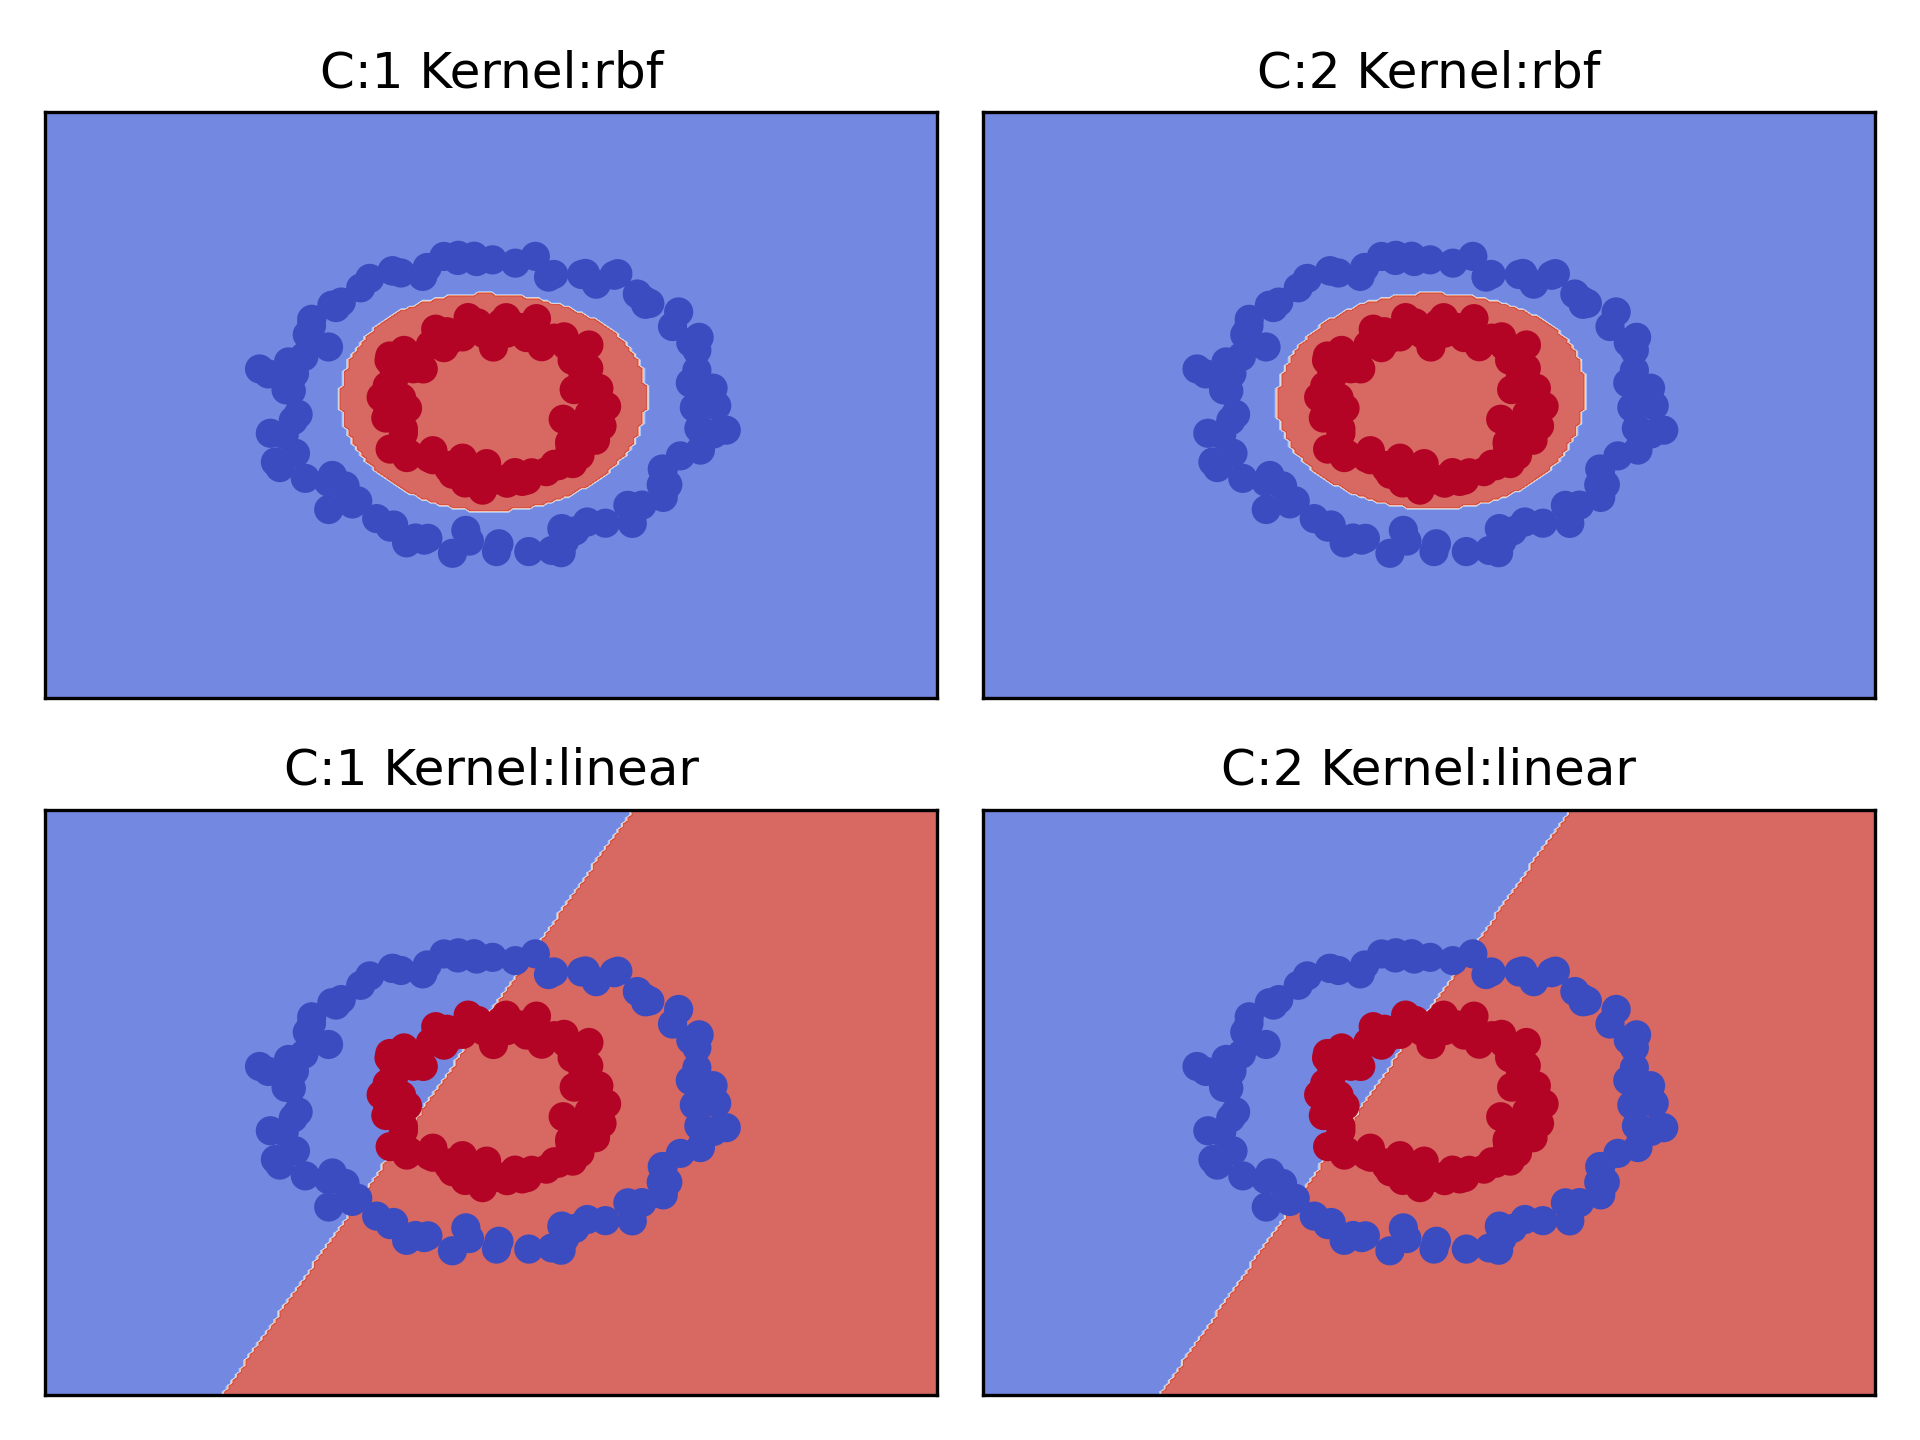
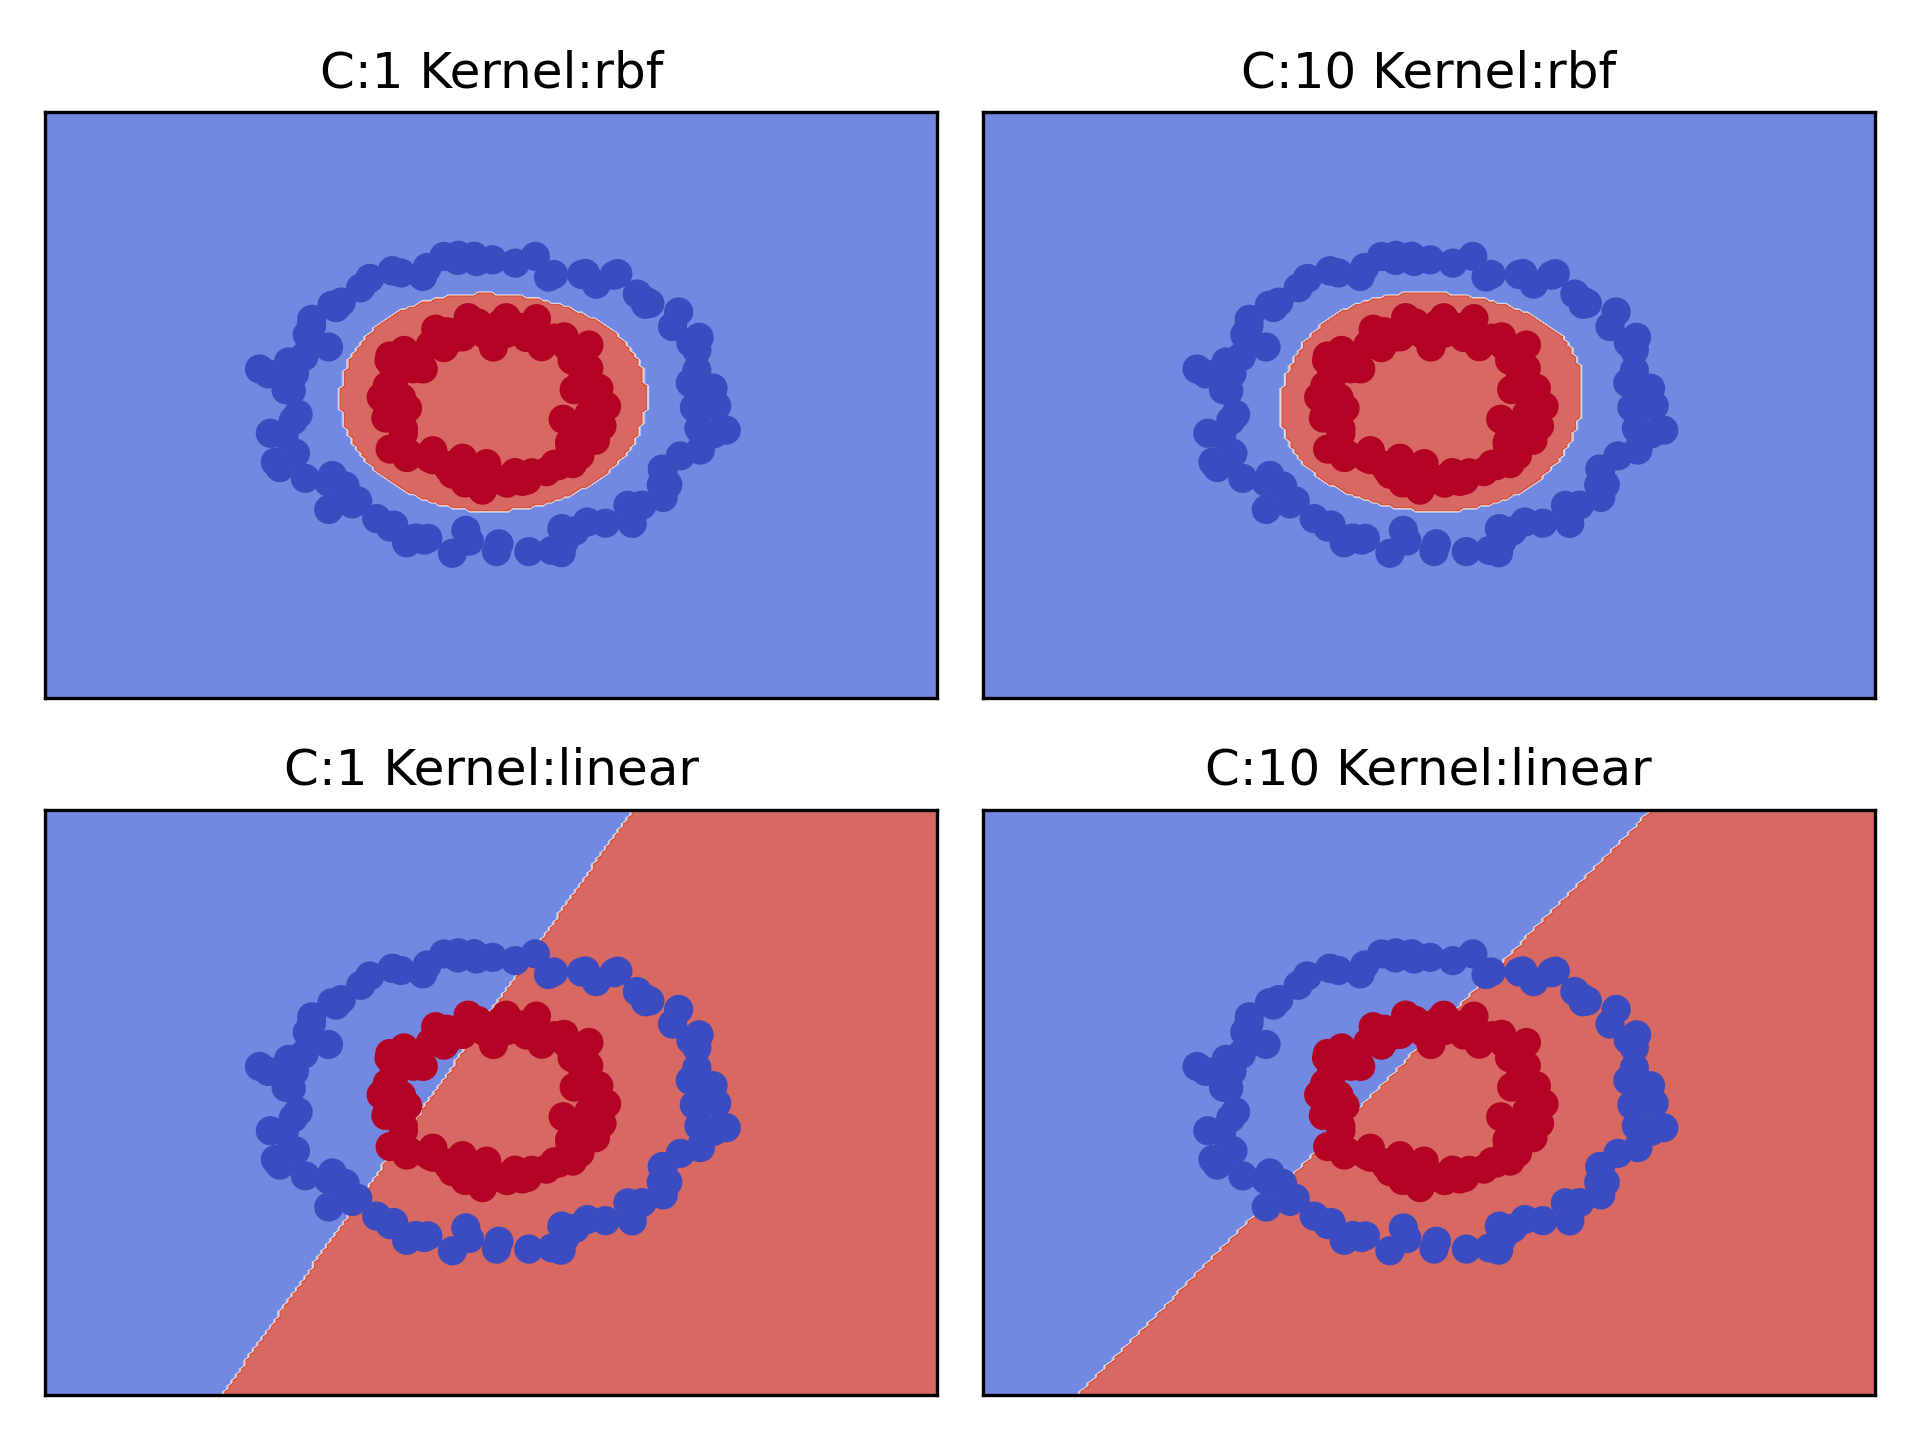
C parameter changed and new result updated

diff --git a/hw3/Part2/svm_dataset1.py b/hw3/Part2/svm_dataset1.py
@@ -11,9 +11,9 @@ X, Y = pickle.load(open("../data/part2_dataset1.data", "rb"))
 
 configurations = [
     {"C": 1, "kernel": "rbf"},
-    {"C": 2, "kernel": "rbf"},
+    {"C": 10, "kernel": "rbf"},
     {"C": 1, "kernel": "linear"},
-    {"C": 2, "kernel": "linear"},
+    {"C": 10, "kernel": "linear"},
 ]
 # default value of C is 1 in SVC
 # default value of kernel is rbf in SVC
